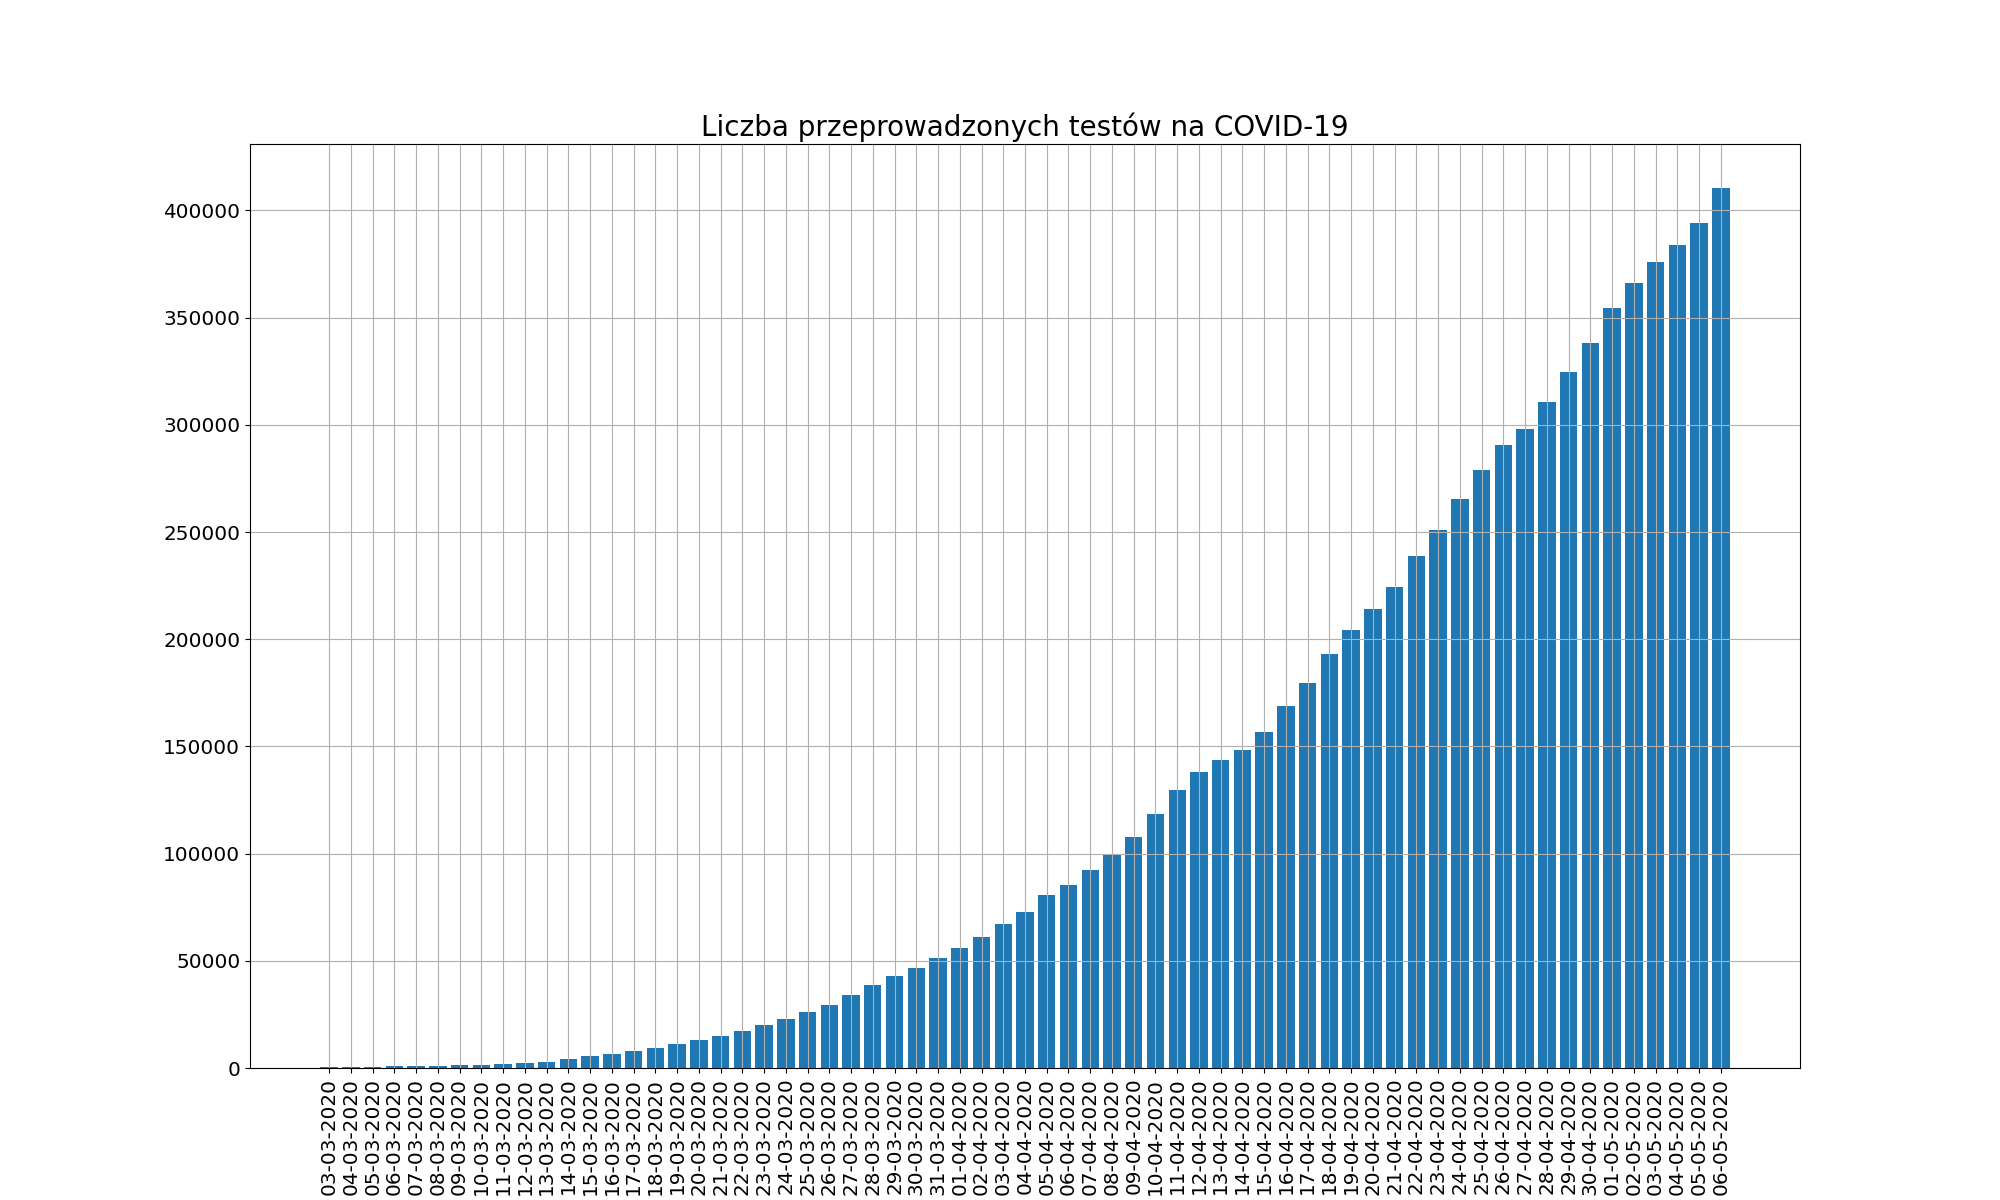
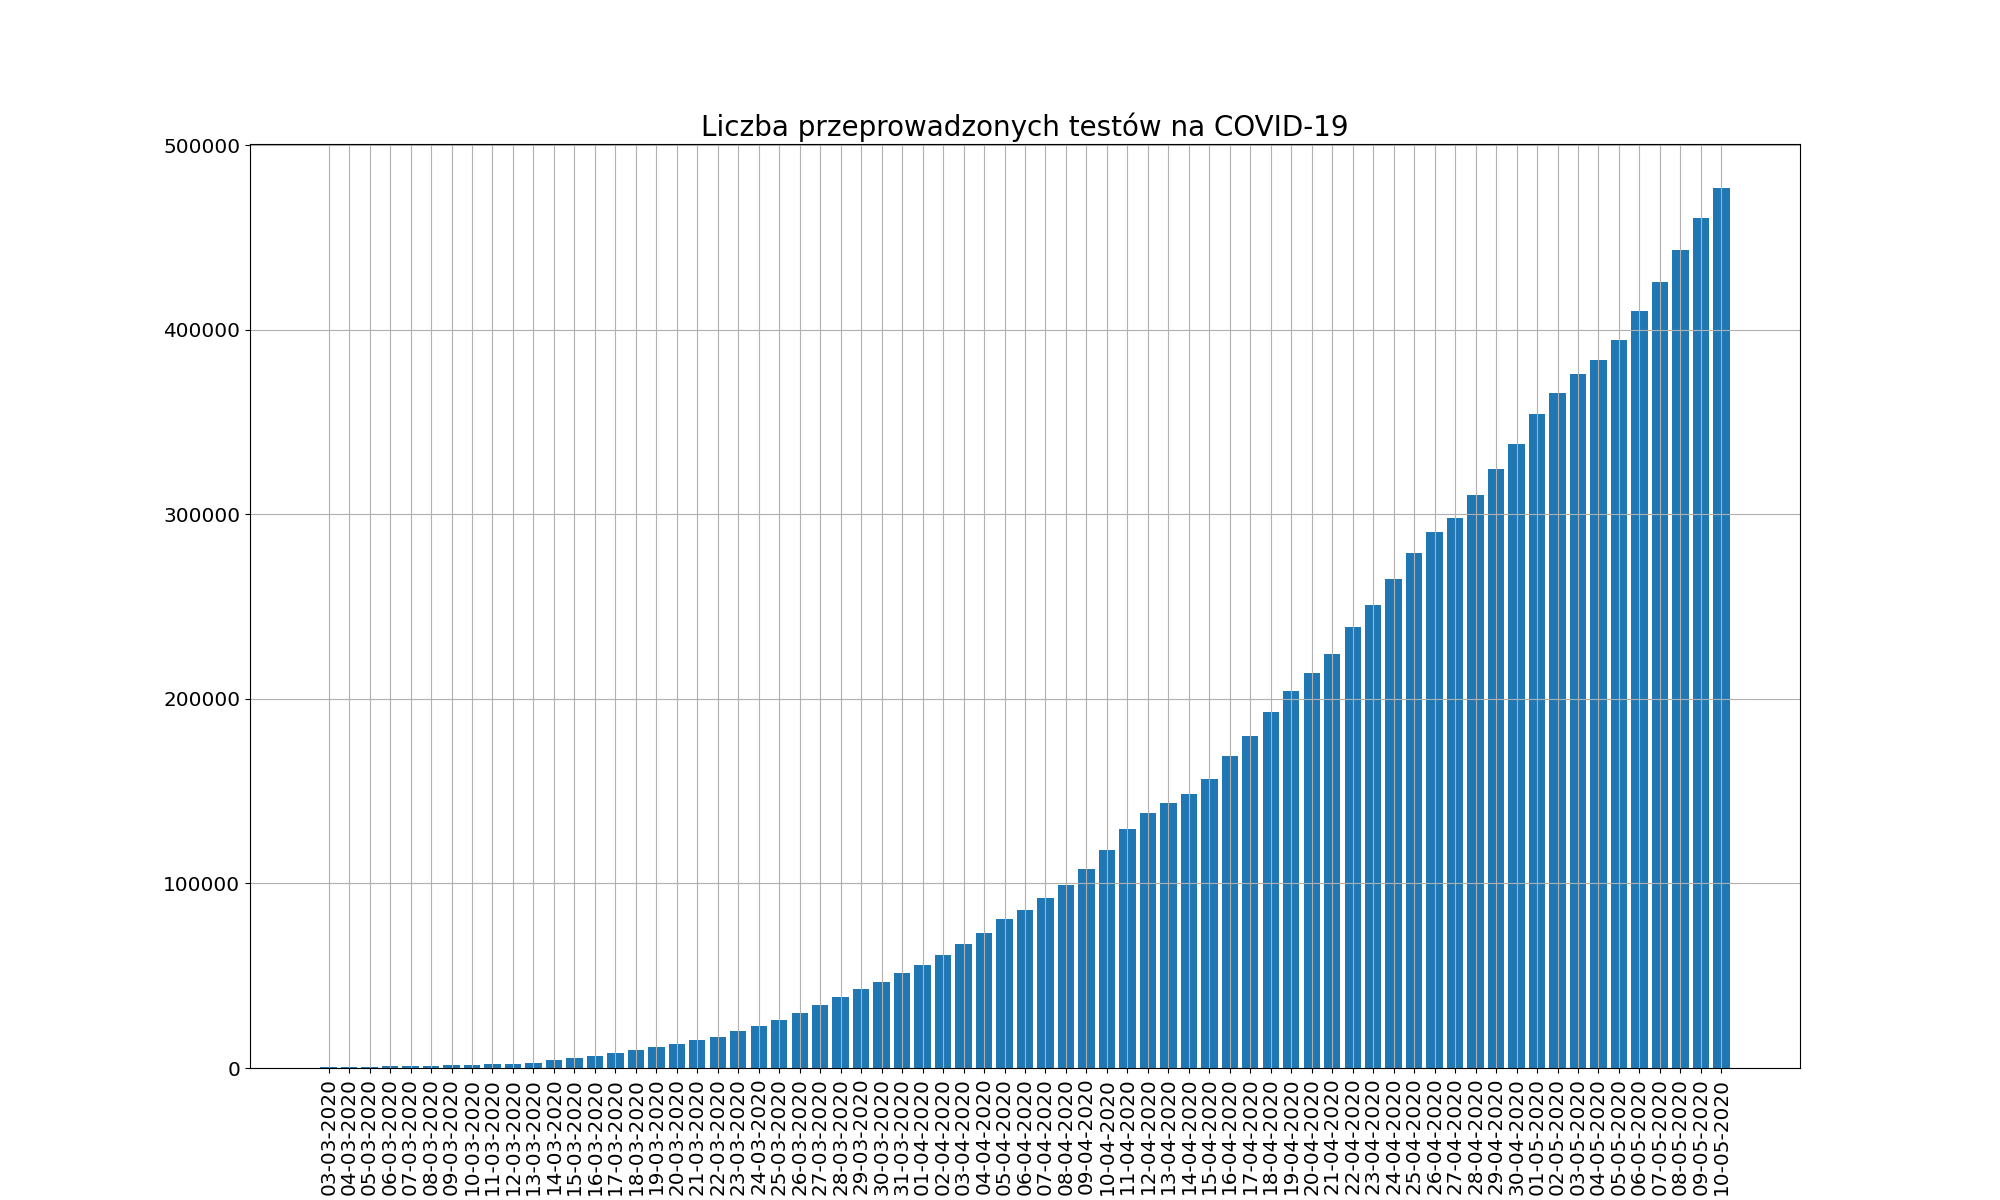
csv fix

diff --git a/DataService.py b/DataService.py
@@ -43,6 +43,8 @@ def get_data(data_type: Type):
             for row in csv_reader:
                 if row[0] == "Timestamp":
                     continue
+                if row[data_type] == '':
+                    continue
                 dates_list.append(row[Type.TIMESTAMP])
                 data_list.append(int(row[data_type]))
     except FileNotFoundError:
